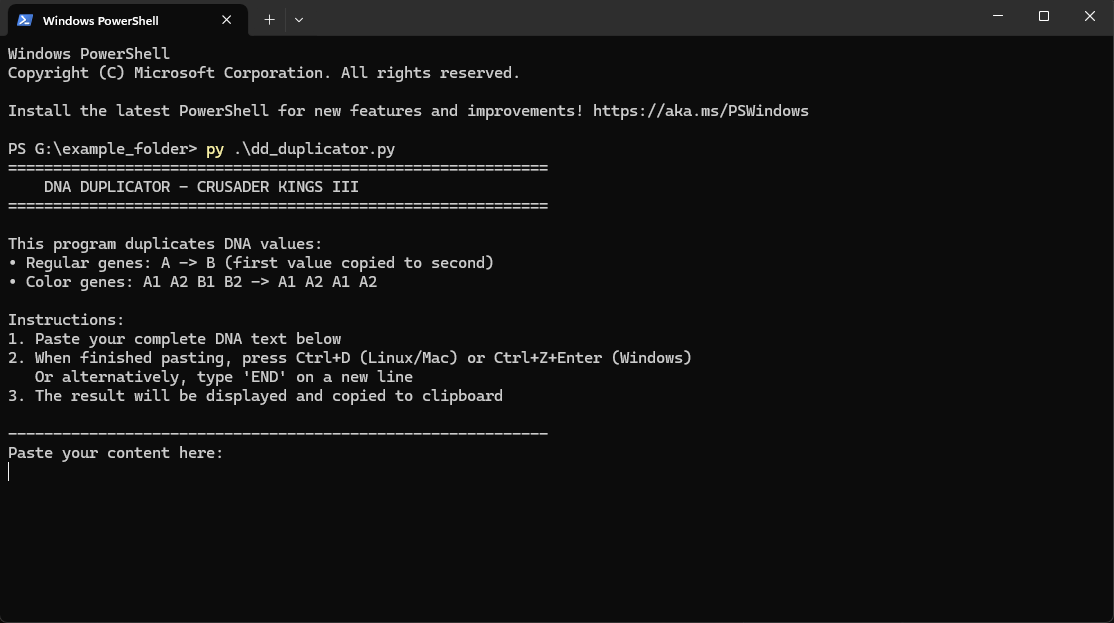
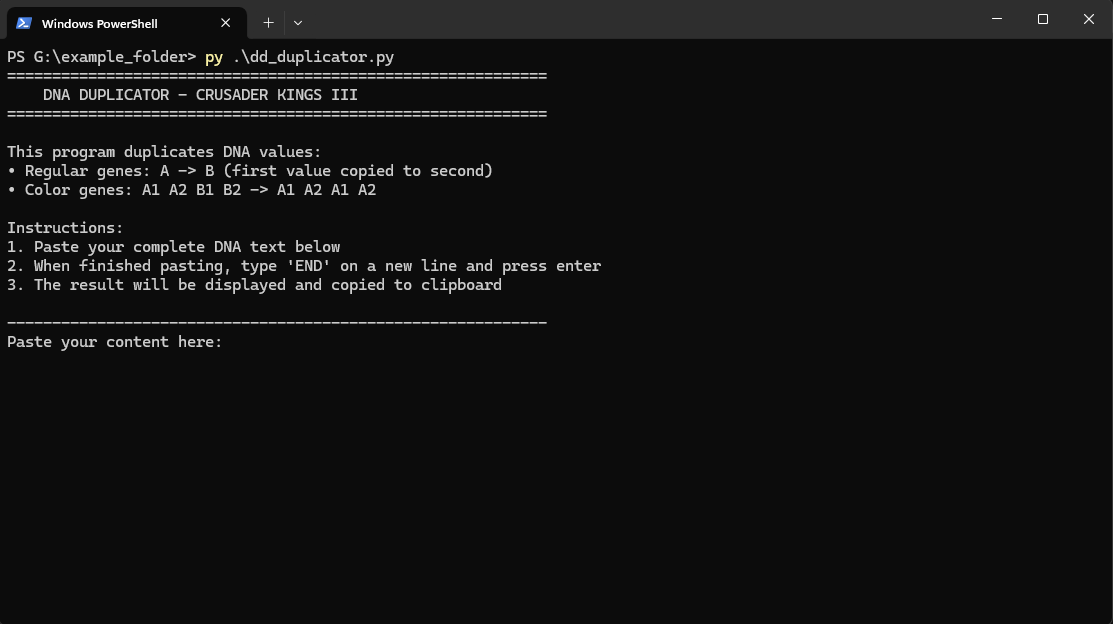
lil fix

Changed region(s): [[0.0, 0.0, 1.0, 0.7319]]

diff --git a/dd_duplicator.py b/dd_duplicator.py
@@ -174,8 +174,7 @@ def main():
     print()
     print("Instructions:")
     print("1. Paste your complete DNA text below")
-    print("2. When finished pasting, press Ctrl+D (Linux/Mac) or Ctrl+Z+Enter (Windows)")
-    print("   Or alternatively, type 'END' on a new line")
+    print("2. When finished pasting, type 'END' on a new line and press enter")
     print("3. The result will be displayed and copied to clipboard")
     print()
     print("-" * 60)
@@ -212,20 +211,51 @@ def main():
         return
     
     print("✅ Processing successful!")
-    print("\n" + "=" * 60)
-    print("RESULT:")
-    print("=" * 60)
-    print(result)
-    print("=" * 60)
     
-    # Try to copy to clipboard
-    print("\nCopying to clipboard...")
-    if copy_to_clipboard(result):
-        print("✅ Result copied to clipboard successfully!")
-        print("You can paste it directly into your file.")
-    else:
-        print("❌ Could not copy to clipboard.")
-        print("You can manually copy the result above.")
+    # Ask user what they want to do
+    while True:
+        print("\n" + "=" * 60)
+        print("What would you like to do?")
+        print("=" * 60)
+        print("1. Copy to Clipboard")
+        print("2. Show DNA")
+        print("3. Copy and Show DNA")
+        print()
+        choice = input("Enter your choice (1, 2, or 3): ").strip()
+        
+        if choice == "1":
+            # Copy to clipboard only
+            if copy_to_clipboard(result):
+                print("✅ Result copied to clipboard successfully!")
+                print("You can paste it directly into your file.")
+            else:
+                print("❌ Could not copy to clipboard.")
+            break
+        elif choice == "2":
+            # Show DNA only
+            print("\n" + "=" * 60)
+            print("RESULT:")
+            print("=" * 60)
+            print(result)
+            print("=" * 60)
+            break
+        elif choice == "3":
+            # Copy and show DNA
+            print("\n" + "=" * 60)
+            print("RESULT:")
+            print("=" * 60)
+            print(result)
+            print("=" * 60)
+            
+            print("\nCopying to clipboard...")
+            if copy_to_clipboard(result):
+                print("✅ Result copied to clipboard successfully!")
+                print("You can paste it directly into your file.")
+            else:
+                print("❌ Could not copy to clipboard.")
+            break
+        else:
+            print("❌ Invalid choice. Please enter 1, 2, or 3.")
     
     print("\nDone! Press Enter to exit...")
     input()
